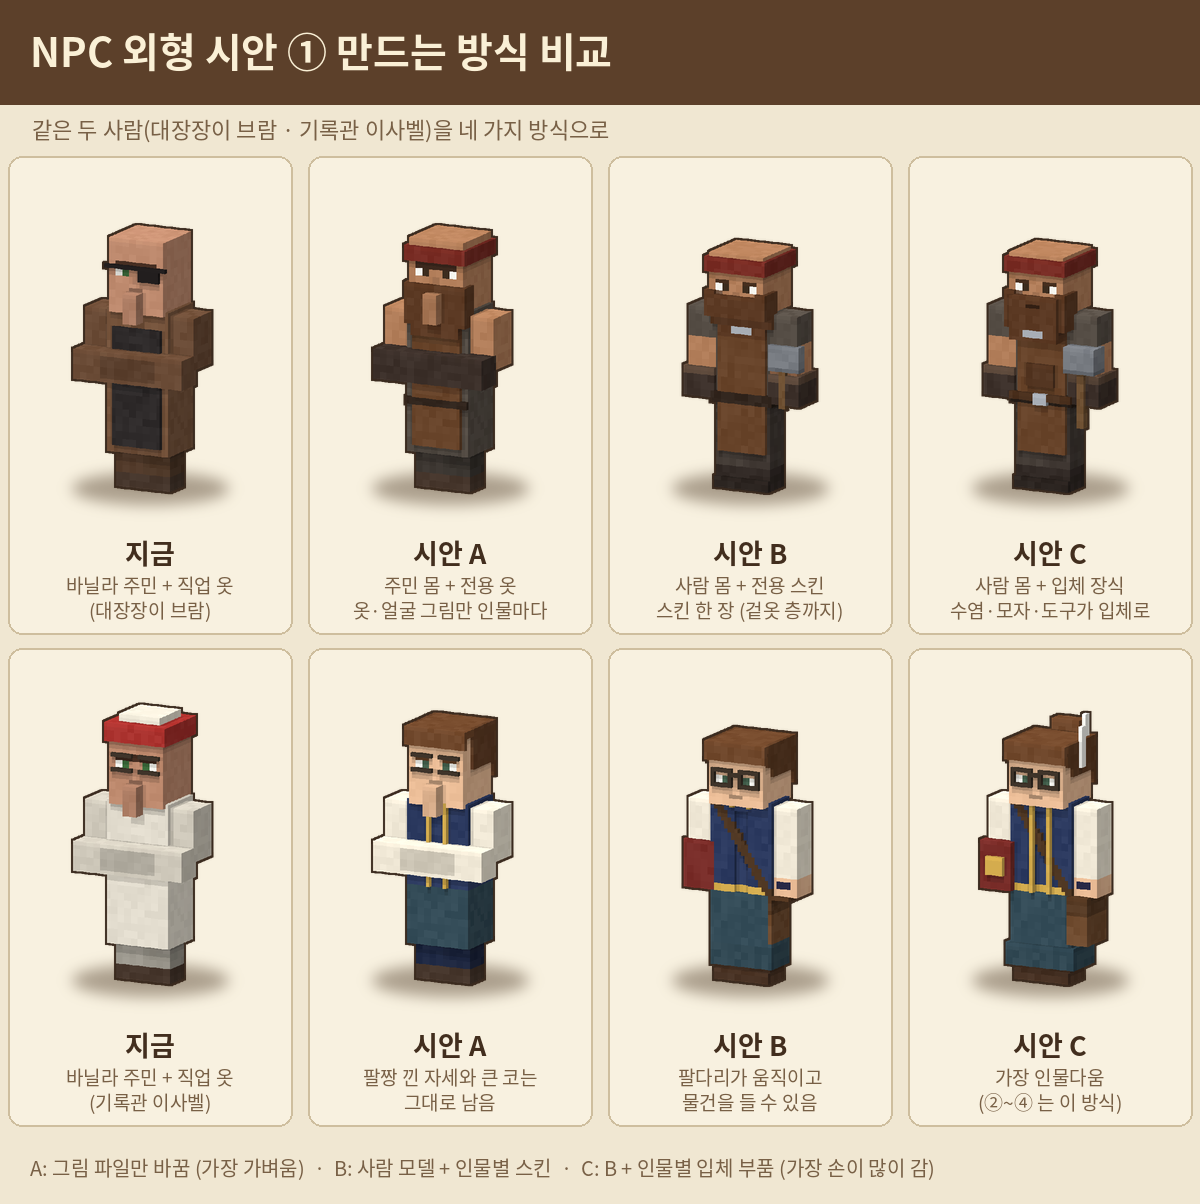
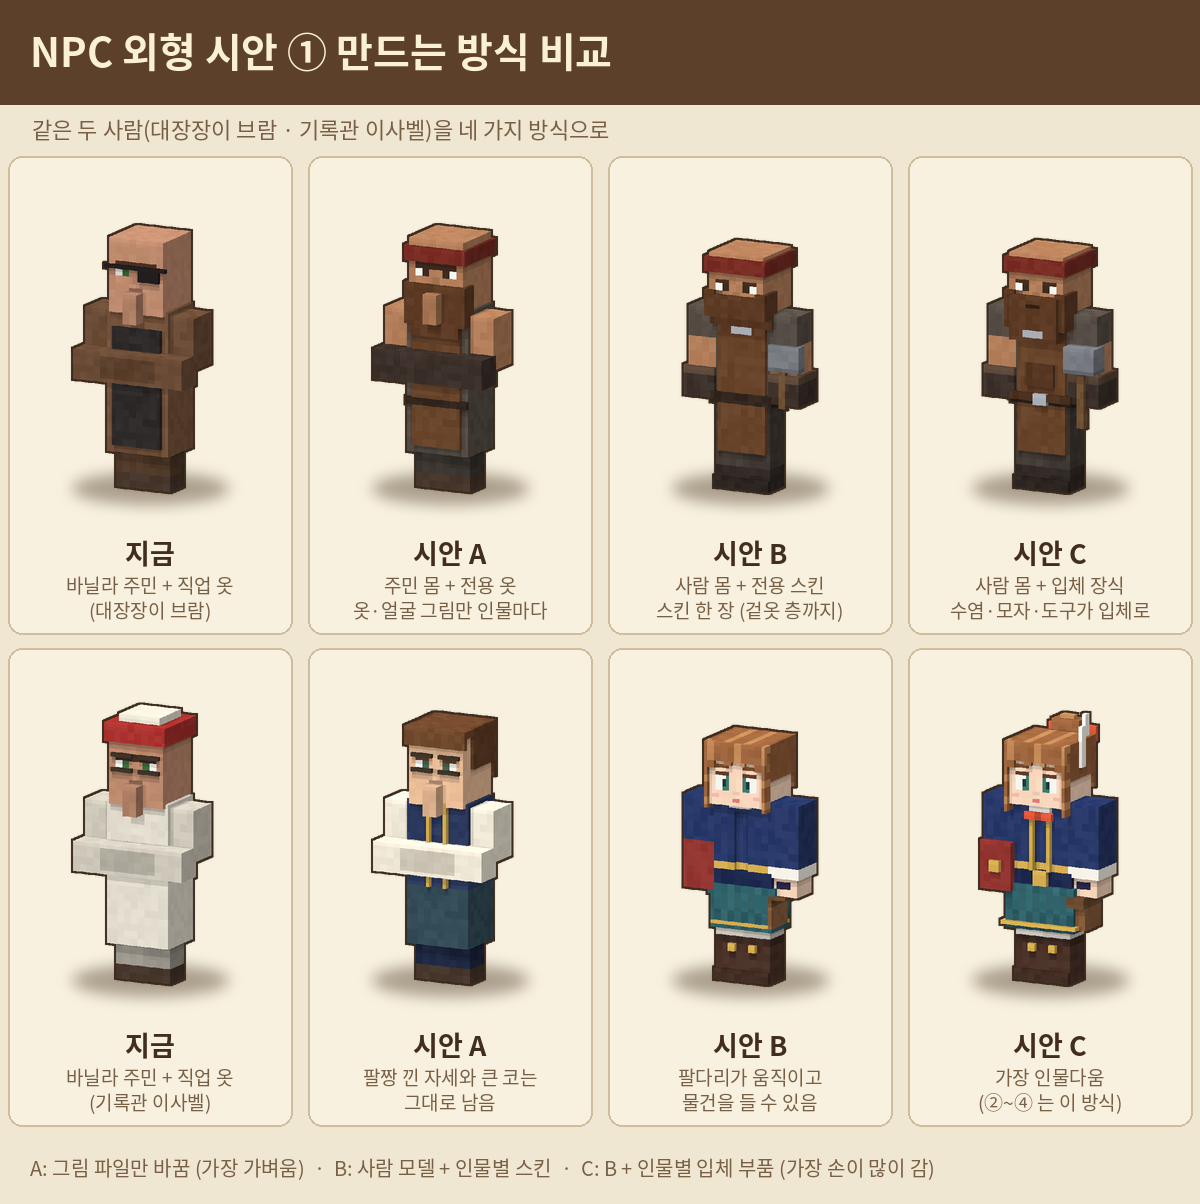
docs: Isabel v2 sheets, worklist notes

Changed region(s): [[0.8017, 0.5839, 0.9558, 0.8297], [0.555, 0.5839, 0.7092, 0.8297]]

diff --git a/docs/worklist.md b/docs/worklist.md
@@ -263,7 +263,9 @@
   - 화면 `client/NpcLookClient`: `RenderLivingEvent.Pre` 에서 주민 그리기를 취소하고 네모들을 그린다. 머리 묶음(얼굴·머리카락·수염·모자)은 8칸 안의 플레이어를 천천히 바라본다. 이름표는 직접 그린다. 끄기: `client.json` 의 `npcLooks`.
   - 엔티티는 그대로 주민이다 (상호작용·배치·저장 그대로). 팔다리는 움직이지 않는다 (서 있는 NPC).
   - 모습이 없는 것: 직업 안내인 알버트는 장비 상인 모습(`m_gear`)을 빌려 쓰고, 식당 주인 로렌초는 식품 상인 모습을 함께 쓴다. 전용 모습을 원하면 npc_mock.py 에 인물 함수를 더하고 gen_npc_looks.py 의 LOOKS · `NpcLooks.ALL` · defaults 에 적는다.
-- G-4. 이사벨을 더 예쁘게 ✔: 큰 눈·속눈썹·홍조, 옆머리를 내린 밤색 올림머리에 불씨빛 리본, 가는 금테 안경, 리본 타이와 금 단추의 남색 조끼, 밑단에 금실을 두른 긴 청록 치마 (`npc_mock.py` 의 `isabel()`, 옛 모습은 `isabel_old()`). 비교 그림을 사용자에게 보냄.
+- G-4. 이사벨 ✔ (작업 중 두 번: "조금 더 예쁘게" → "더 젊고 세련된 디자인으로"): 높이 묶어 길게 내린 밝은 밤색 머리와 불씨빛 리본, 가지런한 앞머리와 얼굴 옆 가닥, 큰 눈·옅은 홍조, 허리까지 오는 남색 재킷(금 단·흰 소맷단)과 흰 블라우스·리본 타이, 높은 허리띠, 주름 잡힌 청록 치마, 긴 부츠. 안경은 뺐다(이 크기에서 얼굴이 어수선해짐 — 되돌리려면 `glasses(g, …)` 한 줄). 책·깃펜·손등의 잉크 자국은 그대로. `npc_mock.py` 의 `isabel()` (처음 시안은 `isabel_old()`), 시안 그림 `docs/design/npc_looks_1·2` 도 다시 뽑음. 비교 그림을 사용자에게 보냄.
+- G-4b. 대조하다 찾은 오류 ✔: NPC 를 세우는 함수 여섯(`spawnNpc`: 상점·퀘스트·출석·직업·뽑기·레이드 안내인)이 `moveTo` 로 yRot 만 정해서, 화면에서는 세울 때 준 방향과 상관없이 늘 남쪽을 보고 섰다 (화면의 몸 방향은 서버의 yHeadRot 을 따른다). → `setYHeadRot` · `setYBodyRot` 도 함께. (`/rtshop npc …` 로 세우면 이제 세운 사람을 마주 본다. NPC 배치 파일로 세운 것은 전부터 맞았다.)
+- 민원 창의 글 상자: 바닐라의 검은 상자 → 짙은 갈색 바탕, 비었을 때 안내 글.
 - G-5. 이전 요청 대조 ✔ (기억해 둔 요청 전부와 이 파일의 목록 A·B):
   - 값으로 확인: 사망 시 Gold 5~50% · 직업 변경 8,000 G/48시간 · 5,000 G/24시간 · 첫 선택 무료 · 검사 검 +10% · 전사 이동 +10% · 탱커 체력 +4·피해 10% 감소·방패 넉백/반사 · 궁수 거리 보너스 15% · 파티 12명.
   - 고친 것: 안내서의 민원 안내(명령어 → 하루의 창). 그 밖의 오류는 3.60.0 의 스토리 다섯 곳.
